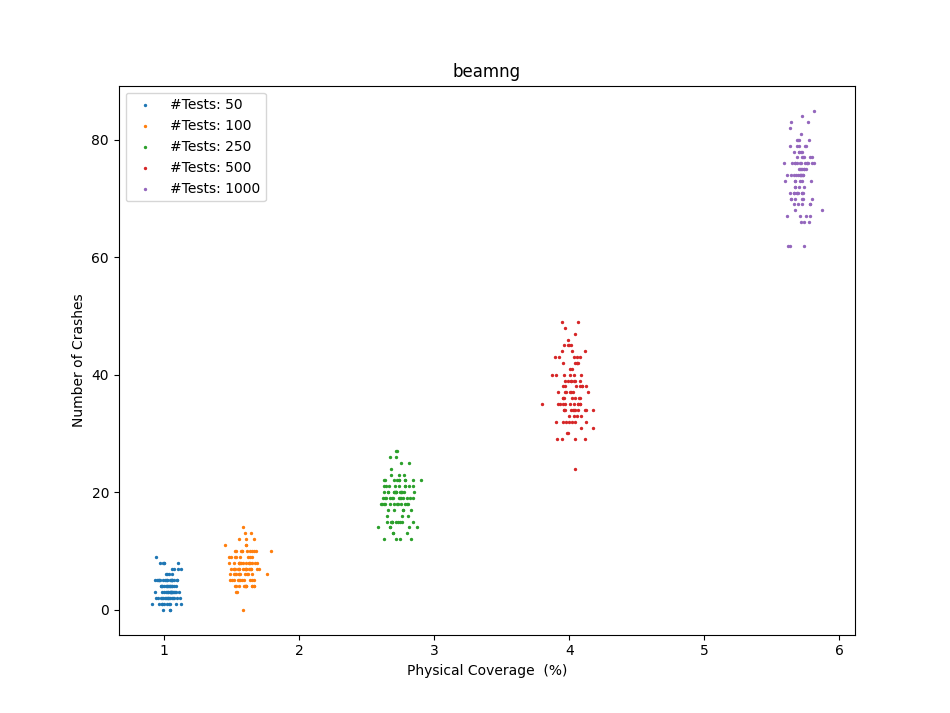
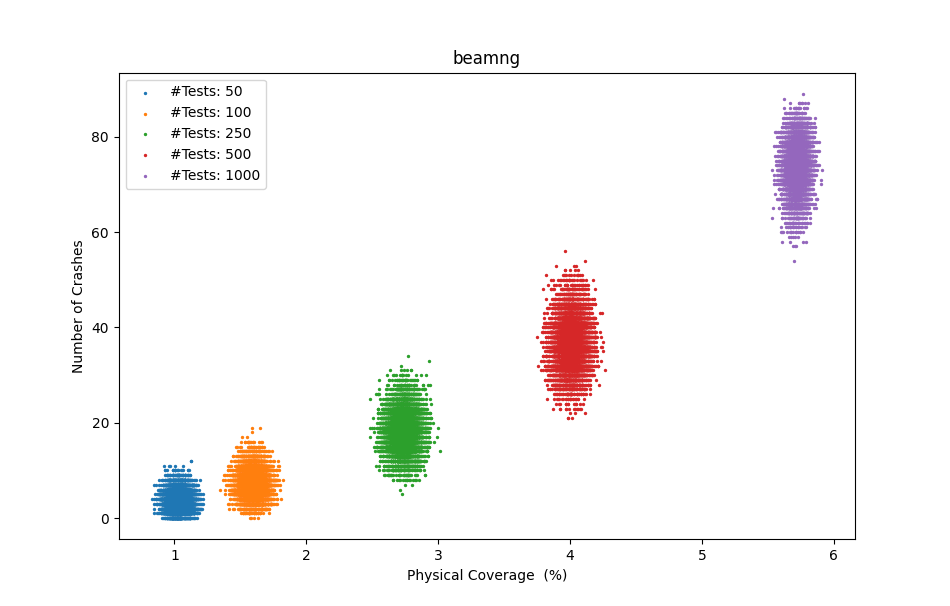
Updated b5a5

diff --git a/coverage_analysis/rq3_compute.py b/coverage_analysis/rq3_compute.py
@@ -110,7 +110,7 @@ print("----------------------------------")
 print("--------Crashes vs Coverage-------")
 print("----------------------------------")
 
-total_test_suites = 10000
+total_test_suites = 1000
 tests_per_test_suite = [50, 100, 250, 500, 1000]
 
 # Create a pool with x processes
